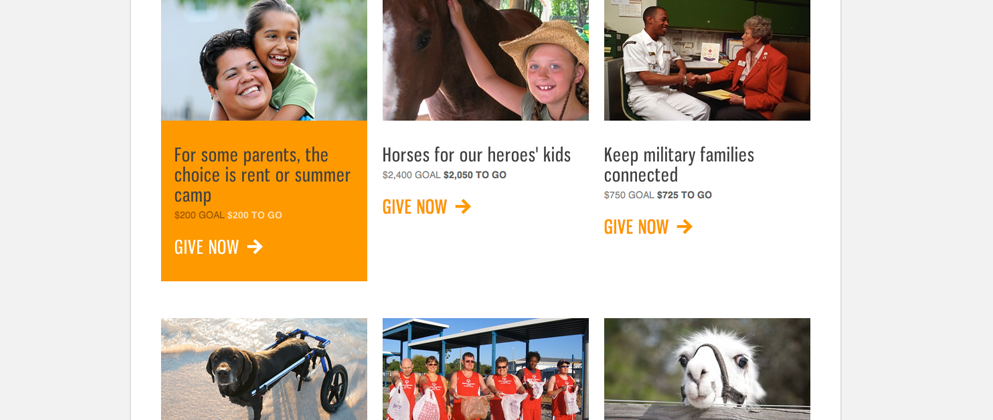
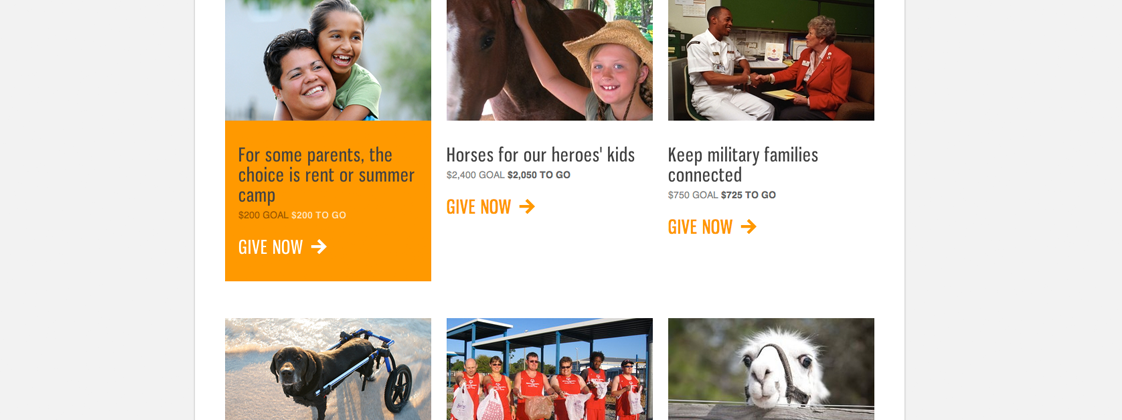
Added new portfolio pieces

Changed region(s): [[0.1561, 0.0, 0.8429, 0.681], [0.1561, 0.7429, 0.8429, 1.0]]

diff --git a/index.html b/index.html
@@ -13,8 +13,26 @@ meta_description: thoughtbot is a web design and development company in Boston.
 </header>
 
 <div id="portfolio-slider">
+  <div id="iora-project">
+    <h2>Iora</h2>
+    <ul class="slider">
+    </ul>
+  </div>
+
   <div id="gulfcoast-project">
     <h2>Gulf Coast Gives</h2>
+    <ul class="slider">
+    </ul>
+  </div>
+
+  <div id="tastedmenu-project">
+    <h2>Tasted Menu</h2>
+    <ul class="slider">
+    </ul>
+  </div>
+
+  <div id="stattleship-project">
+    <h2>Stattleship</h2>
     <ul class="slider">
     </ul>
   </div>
@@ -43,36 +61,19 @@ meta_description: thoughtbot is a web design and development company in Boston.
     </ul>
   </div>
 
-  <div id="carbonrally-project">
-    <h2>Carbonrally</h2>
-    <ul class="slider">
-    </ul>
-  </div>
-
-  <div id="safetystream-project">
-    <h2>safetyStream</h2>
-    <ul class="slider">
-    </ul>
-  </div>
-
-  <div id="shortboard-project">
-    <h2>Shortbord</h2>
-    <ul class="slider">
-    </ul>
-  </div>
 </div>
 
 <section class="primary">
   <section id="portfolio">
     <ul>
+      <li id="iora"><a href="#portfolio-slider" title="iora">Iora</a></li>
       <li id="gulfcoast"><a href="#portfolio-slider" title="gulfcoast">Gulf Coast Gives</a></li>
+      <li id="tastedmenu"><a href="#portfolio-slider" title="tastedmenu">Tasted Menu</a></li>
+      <li id="stattleship"><a href="#portfolio-slider" title="stattleship">Stattleship</a></li>
       <li id="pozit"><a href="#portfolio-slider" title="pozit">Pozit</a></li>
       <li id="coupondudes"><a href="#portfolio-slider" title="coupondudes">Coupon Dudes</a></li>
       <li id="gnite"><a href="#portfolio-slider" title="gnite">Gnite</a></li>
       <li id="umbrellatoday"><a href="#portfolio-slider" title="umbrellatoday">Umbrella Today</a></li>
-      <li id="carbonrally"><a href="#portfolio-slider" title="carbonrally">Carbonrally</a></li>
-      <li id="safetystream"><a href="#portfolio-slider" title="safetystream">safetyStream</a></li>
-      <li id="shortboard"><a href="#portfolio-slider" title="shortboard">Shortboard</a></li>
     </ul>
   </section>
 

diff --git a/stylesheets/sass/_index.scss b/stylesheets/sass/_index.scss
@@ -154,24 +154,31 @@ section#portfolio {
       &#pozit a {
         background: url('/images/portfolio/thumb/pozit.png') center center no-repeat;
       }
+
       &#gulfcoast a {
         background: url('/images/portfolio/thumb/gulfcoast.png') center center no-repeat;
       }
+
       &#coupondudes a {
         background: url('/images/portfolio/thumb/coupondudes.png') center center no-repeat;
       }
+
       &#gnite a {
         background: url('/images/portfolio/thumb/gnite.png') center center no-repeat;
       }
-      &#carbonrally a {
-        background: url('/images/portfolio/thumb/carbonrally.png') center center no-repeat;
+
+      &#iora a {
+        background: url('/images/portfolio/thumb/iora.png') center center no-repeat;
       }
-      &#safetystream a {
-        background: url('/images/portfolio/thumb/safetystream.png') center center no-repeat;
+
+      &#stattleship a {
+        background: url('/images/portfolio/thumb/stattleship.png') center center no-repeat;
       }
-      &#shortboard a {
-        background: url('/images/portfolio/thumb/shortboard.png') center center no-repeat;
+
+      &#tastedmenu a {
+        background: url('/images/portfolio/thumb/tastedmenu.png') center center no-repeat;
       }
+
       &#umbrellatoday a {
         background: url('/images/portfolio/thumb/umbrellatoday.png') center center no-repeat;
       }

diff --git a/stylesheets/screen.css b/stylesheets/screen.css
@@ -1202,12 +1202,12 @@ section#portfolio {
         background: url("/images/portfolio/thumb/coupondudes.png") center center no-repeat; }
       section#portfolio ul li#gnite a {
         background: url("/images/portfolio/thumb/gnite.png") center center no-repeat; }
-      section#portfolio ul li#carbonrally a {
-        background: url("/images/portfolio/thumb/carbonrally.png") center center no-repeat; }
-      section#portfolio ul li#safetystream a {
-        background: url("/images/portfolio/thumb/safetystream.png") center center no-repeat; }
-      section#portfolio ul li#shortboard a {
-        background: url("/images/portfolio/thumb/shortboard.png") center center no-repeat; }
+      section#portfolio ul li#iora a {
+        background: url("/images/portfolio/thumb/iora.png") center center no-repeat; }
+      section#portfolio ul li#stattleship a {
+        background: url("/images/portfolio/thumb/stattleship.png") center center no-repeat; }
+      section#portfolio ul li#tastedmenu a {
+        background: url("/images/portfolio/thumb/tastedmenu.png") center center no-repeat; }
       section#portfolio ul li#umbrellatoday a {
         background: url("/images/portfolio/thumb/umbrellatoday.png") center center no-repeat; }
 

diff --git a/javascripts/application.js b/javascripts/application.js
@@ -8,14 +8,14 @@ $(document).ready(function() {
   $('#portfolio').localScroll();
 
   var images = {
-    "gulfcoast": 4,
+    "iora": 3,
+    "tastedmenu": 3,
+    "stattleship": 3,
+    "gulfcoast": 3,
     "pozit": 3,
     "coupondudes": 4,
     "gnite": 2,
     "umbrellatoday": 2,
-    "carbonrally": 2,
-    "safetystream": 4,
-    "shortboard": 4
   };
 
   $('#portfolio a').click(function(){
